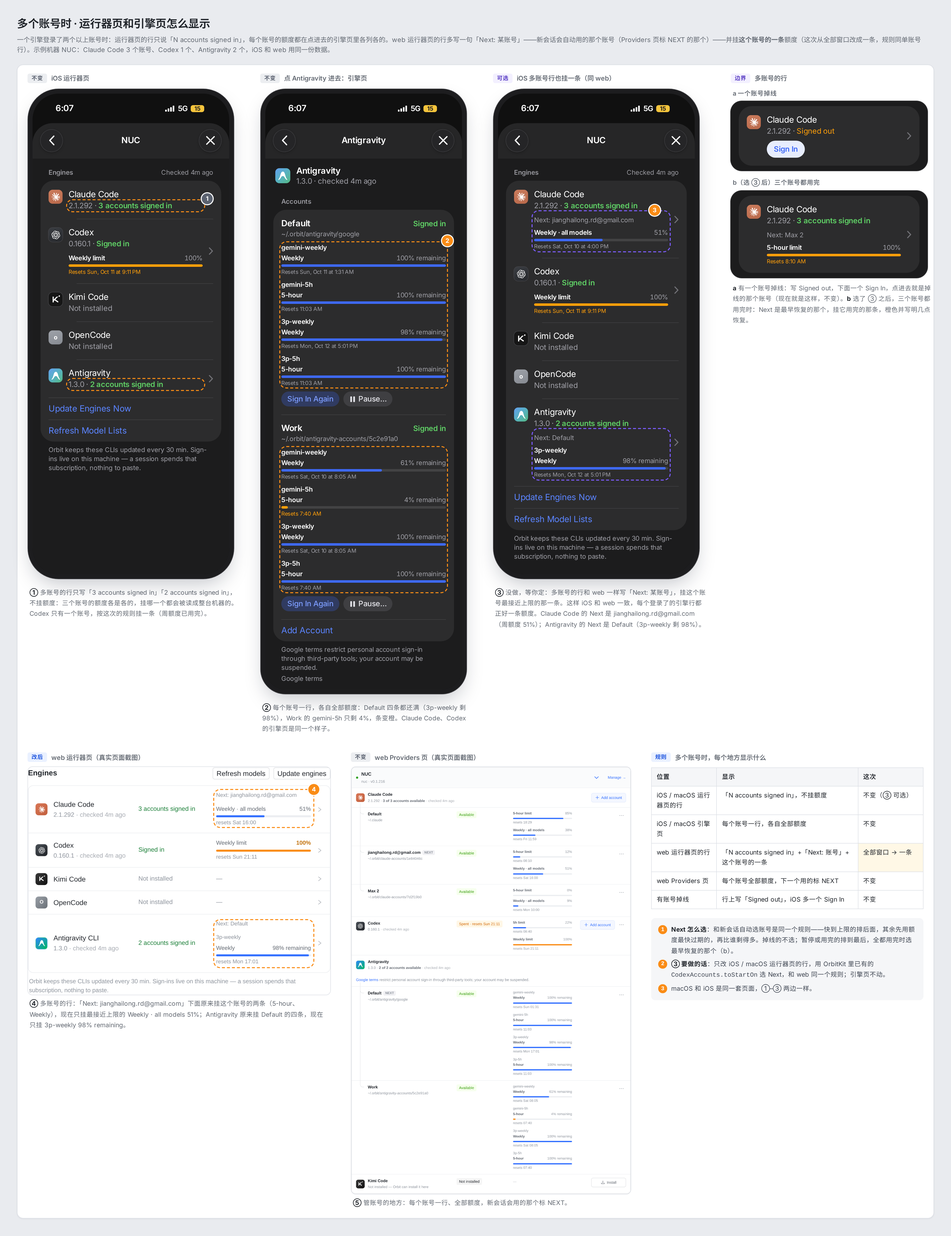
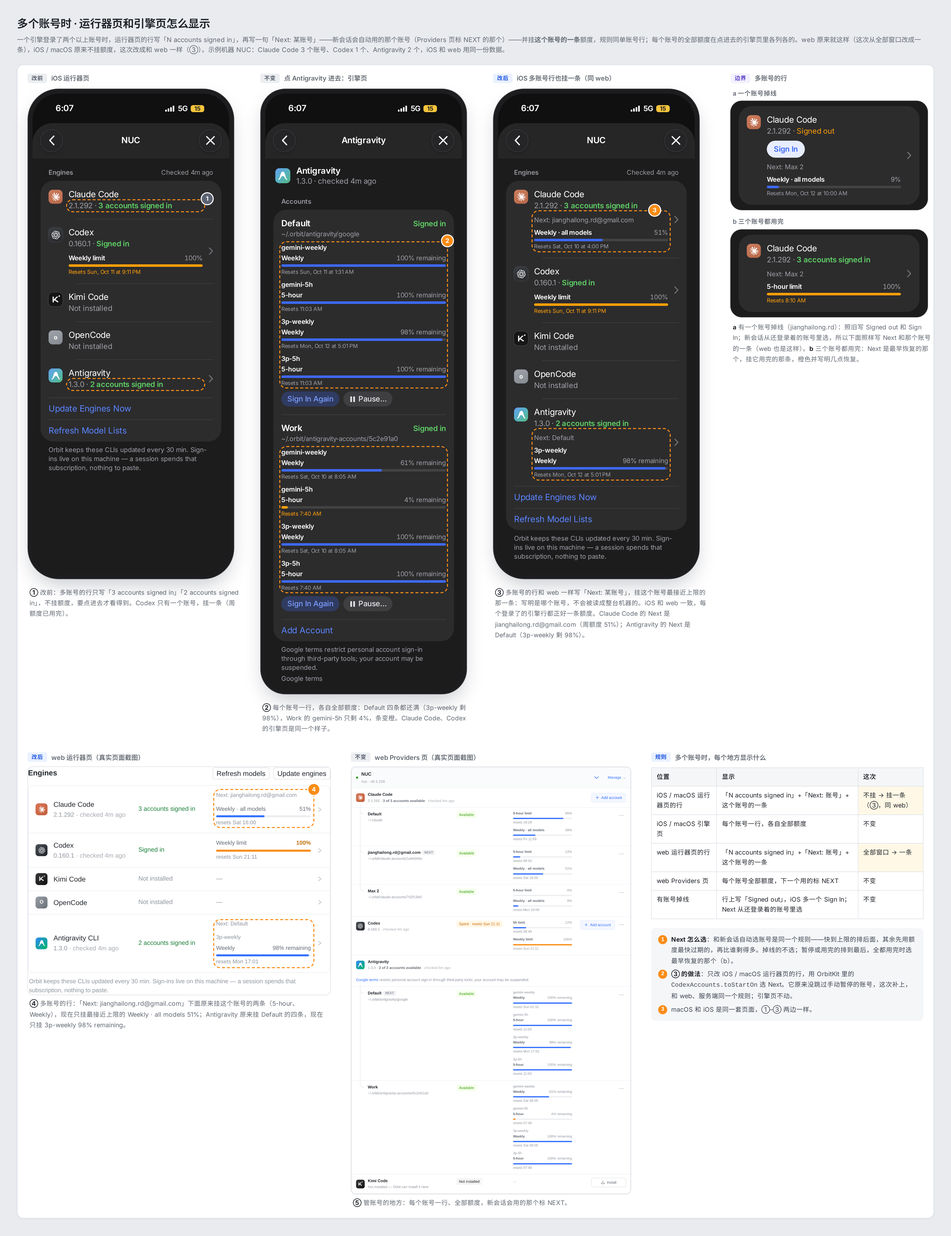
Runner page: a several-accounts row names the next account and its window (iOS/macOS)
On iOS and macOS an engine with several accounts said "N accounts signed in" and showed no quota,
while the web row named the account a new session starts on and showed its window. The native row
now does the same: "Next: <account>" (RunnerPageCopy.runnerEngineNext, beside web's runnerCopy
runnerEngineNext, which RunnerEnginesSection now uses) above that account's binding window.

CodexAccounts.toStartOn now passes over an account paused by hand until its pause ends, as shared
rankAccounts has since the account pause landed (0ba581f31), so the account the row names is the one
the server starts a session on; the New Session screen's Automatic preview reads the same answer.

Board 07 (docs/mocks/antigravity-accounts) records the decision.

diff --git a/docs/mocks/antigravity-accounts/07-multi-account-display.html b/docs/mocks/antigravity-accounts/07-multi-account-display.html
@@ -2,7 +2,7 @@
 <!-- Design mock: what a runner's page and an engine's page show when an engine has several accounts,
      after the one-window-per-row change (06). ①–③ and the cuts are drawn with kit.js in the owner's
      dark appearance; ④ and ⑤ are screenshots of the real web console (vite dev on this branch, synthetic
-     runner data, 2026-10-07 6:07 AM Asia/Shanghai). ③ is an option, not built. Not shipped code. -->
+     runner data, 2026-10-07 6:07 AM Asia/Shanghai). ③ was an option; the owner chose it. Not shipped code. -->
 <html lang="en">
 <head>
 <meta charset="utf-8">
@@ -26,21 +26,19 @@
   .rules th, .rules td { border: 1px solid #dde0e6; padding: 8px 10px; text-align: left; vertical-align: top; }
   .rules th { background: #f5f6f8; font-weight: 600; color: var(--text-1); }
   .rules td.chg { background: #fff8e6; }
-  .rules td.opt { background: #f3f0ff; }
-  .ring.violet { border-color: #7c5cff; }
 </style>
 </head>
 <body class="m">
 <section class="board m-sheet">
   <h1 class="m-h1 zh">多个账号时 · 运行器页和引擎页怎么显示</h1>
-  <p class="m-sub zh">一个引擎登录了两个以上账号时：运行器页的行只说「N accounts signed in」，每个账号的额度都在点进去的引擎页里各列各的。web 运行器页的行多写一句「Next: 某账号」——新会话会自动用的那个账号（Providers 页标 NEXT 的那个）——并挂<b>这个账号的一条</b>额度（这次从全部窗口改成一条，规则同单账号行）。示例机器 NUC：Claude Code 3 个账号、Codex 1 个、Antigravity 2 个，iOS 和 web 用同一份数据。</p>
+  <p class="m-sub zh">一个引擎登录了两个以上账号时，运行器页的行写「N accounts signed in」，再写一句「Next: 某账号」——新会话会自动用的那个账号（Providers 页标 NEXT 的那个）——并挂<b>这个账号的一条</b>额度，规则同单账号行；每个账号的全部额度在点进去的引擎页里各列各的。web 原来就这样（这次从全部窗口改成一条），iOS / macOS 原来不挂额度，这次改成和 web 一样（③）。示例机器 NUC：Claude Code 3 个账号、Codex 1 个、Antigravity 2 个，iOS 和 web 用同一份数据。</p>
 
   <div class="m-stage">
     <div class="row4">
       <div class="ph-wrap">
-        <div class="ph-l zh"><span class="m-k">不变</span>iOS 运行器页</div>
+        <div class="ph-l zh"><span class="m-k">改前</span>iOS 运行器页</div>
         <div id="p1"></div>
-        <p class="m-cap zh"><b>①</b> 多账号的行只写「3 accounts signed in」「2 accounts signed in」，不挂额度：三个账号的额度各是各的，挂哪一个都会被读成整台机器的。Codex 只有一个账号，按这次的规则挂一条（周额度已用完）。</p>
+        <p class="m-cap zh"><b>①</b> 改前：多账号的行只写「3 accounts signed in」「2 accounts signed in」，不挂额度，要点进去才看得到。Codex 只有一个账号，挂一条（周额度已用完）。</p>
       </div>
       <div class="ph-wrap">
         <div class="ph-l zh"><span class="m-k">不变</span>点 Antigravity 进去：引擎页</div>
@@ -48,14 +46,14 @@
         <p class="m-cap zh"><b>②</b> 每个账号一行，各自全部额度：Default 四条都还满（3p-weekly 剩 98%），Work 的 gemini-5h 只剩 4%，条变橙。Claude Code、Codex 的引擎页是同一个样子。</p>
       </div>
       <div class="ph-wrap">
-        <div class="ph-l zh"><span class="m-k state">可选</span>iOS 多账号行也挂一条（同 web）</div>
+        <div class="ph-l zh"><span class="m-k new">改后</span>iOS 多账号行也挂一条（同 web）</div>
         <div id="p3"></div>
-        <p class="m-cap zh"><b>③</b> 没做，等你定：多账号的行和 web 一样写「Next: 某账号」，挂这个账号最接近上限的那一条。这样 iOS 和 web 一致，每个登录了的引擎行都正好一条额度。Claude Code 的 Next 是 jianghailong.rd@gmail.com（周额度 51%）；Antigravity 的 Next 是 Default（3p-weekly 剩 98%）。</p>
+        <p class="m-cap zh"><b>③</b> 多账号的行和 web 一样写「Next: 某账号」，挂这个账号最接近上限的那一条：写明是哪个账号，不会被读成整台机器的。iOS 和 web 一致，每个登录了的引擎行都正好一条额度。Claude Code 的 Next 是 jianghailong.rd@gmail.com（周额度 51%）；Antigravity 的 Next 是 Default（3p-weekly 剩 98%）。</p>
       </div>
       <div>
         <div class="ph-l zh" style="margin:0 0 8px 10px"><span class="m-k state">边界</span>多账号的行</div>
         <div class="cuts" id="cuts"></div>
-        <p class="m-cap zh" style="margin-left:14px; width:400px"><b>a</b> 有一个账号掉线：写 Signed out，下面一个 Sign In，点进去就是掉线的那个账号（现在就是这样，不变）。<b>b</b> 选了 ③ 之后，三个账号都用完时：Next 是最早恢复的那个，挂它用完的那条，橙色并写明几点恢复。</p>
+        <p class="m-cap zh" style="margin-left:14px; width:400px"><b>a</b> 有一个账号掉线（jianghailong.rd）：照旧写 Signed out 和 Sign In；新会话从还登录着的账号里选，所以下面照样写 Next 和那个账号的一条（web 也是这样）。<b>b</b> 三个账号都用完：Next 是最早恢复的那个，挂它用完的那条，橙色并写明几点恢复。</p>
       </div>
     </div>
 
@@ -74,15 +72,15 @@
         <div class="ph-l zh" style="margin-bottom:6px"><span class="m-k new">规则</span>多个账号时，每个地方显示什么</div>
         <table class="rules zh">
           <tr><th style="width:24%">位置</th><th>显示</th><th style="width:24%">这次</th></tr>
-          <tr><td>iOS / macOS 运行器页的行</td><td>「N accounts signed in」，不挂额度</td><td>不变（③ 可选）</td></tr>
+          <tr><td>iOS / macOS 运行器页的行</td><td>「N accounts signed in」+「Next: 账号」+ 这个账号的一条</td><td class="chg">不挂 → 挂一条（③，同 web）</td></tr>
           <tr><td>iOS / macOS 引擎页</td><td>每个账号一行，各自全部额度</td><td>不变</td></tr>
           <tr><td>web 运行器页的行</td><td>「N accounts signed in」+「Next: 账号」+ 这个账号的一条</td><td class="chg">全部窗口 → 一条</td></tr>
           <tr><td>web Providers 页</td><td>每个账号全部额度，下一个用的标 NEXT</td><td>不变</td></tr>
-          <tr><td>有账号掉线</td><td>行上写「Signed out」，iOS 多一个 Sign In</td><td>不变</td></tr>
+          <tr><td>有账号掉线</td><td>行上写「Signed out」，iOS 多一个 Sign In；Next 从还登录着的账号里选</td><td>不变</td></tr>
         </table>
         <ul class="m-notes zh">
           <li><span class="m-n">1</span><span><b>Next 怎么选</b>：和新会话自动选账号是同一个规则——快到上限的排后面，其余先用额度最快过期的，再比谁剩得多。掉线的不选；暂停或用完的排到最后，全都用完时选最早恢复的那个（b）。</span></li>
-          <li><span class="m-n">2</span><span><b>③ 要做的话</b>：只改 iOS / macOS 运行器页的行，用 OrbitKit 里已有的 <code>CodexAccounts.toStartOn</code> 选 Next，和 web 同一个规则；引擎页不动。</span></li>
+          <li><span class="m-n">2</span><span><b>③ 的做法</b>：只改 iOS / macOS 运行器页的行，用 OrbitKit 里的 <code>CodexAccounts.toStartOn</code> 选 Next。它原来没跳过手动暂停的账号，这次补上，和 web、服务端同一个规则；引擎页不动。</span></li>
           <li><span class="m-n">3</span><span>macOS 和 iOS 是同一套页面，①–③ 两边一样。</span></li>
         </ul>
       </div>
@@ -109,7 +107,7 @@
   const page = (rows) => section({ header: 'Engines', trailing: 'Checked 4m ago', rows: [...rows,
     btnRow('Update Engines Now'), btnRow('Refresh Model Lists')], footer });
 
-  // ① as it stays: several accounts, no quota on the row.
+  // ① before: several accounts, no quota on the row.
   document.getElementById('p1').outerHTML = phone({ title: 'NUC', cls: 'dark', status: STATUS, height: 960,
     body: page([claudeRow(), codex, ...missing, agRow()]) });
 
@@ -134,7 +132,7 @@
   ], footer: GOOGLE_TERMS });
   document.getElementById('p2').outerHTML = phone({ title: 'Antigravity', body: enginePage, cls: 'dark tall', status: STATUS, height: 1190 });
 
-  // ③ the option: the account a new session starts on, named, and its one window.
+  // ③ as it ships: the account a new session starts on, named, and its one window.
   document.getElementById('p3').outerHTML = phone({ title: 'NUC', cls: 'dark', status: STATUS, height: 960, body: page([
     claudeRow({ extra: nx('jianghailong.rd@gmail.com'),
       windows: [{ label: 'Weekly · all models', pct: 51, resets: 'Resets Sat, Oct 10 at 4:00 PM' }] }),
@@ -145,8 +143,9 @@
 
   const cut = (label, row) => `<div><div class="cut-l zh">${label}</div><div class="cut dark">${section({ rows: [row] }).replace('<div class="s-gap"></div>', '')}</div></div>`;
   document.getElementById('cuts').innerHTML = [
-    cut('a 一个账号掉线', claudeRow({ id: '', status: { text: 'Signed out', tone: 'warn' }, capsule: 'Sign In' })),
-    cut('b（选 ③ 后）三个账号都用完', claudeRow({ id: '', extra: nx('Max 2'),
+    cut('a 一个账号掉线', claudeRow({ id: '', status: { text: 'Signed out', tone: 'warn' }, capsule: 'Sign In', extra: nx('Max 2'),
+      windows: [{ label: 'Weekly · all models', pct: 9, resets: 'Resets Mon, Oct 12 at 10:00 AM' }] })),
+    cut('b 三个账号都用完', claudeRow({ id: '', extra: nx('Max 2'),
       windows: [{ label: '5-hour limit', pct: 100, resets: 'Resets 8:10 AM', warn: true }] })),
   ].join('');
 
@@ -163,7 +162,7 @@
     ringMark(p2, '#work .ws', '', 4);
     for (const id of ['cl', 'ag']) {
       const a = at(p3, `#${id} .nx`), b = at(p3, `#${id} .ws`);
-      p3.insertAdjacentHTML('beforeend', marks([{ x: a.x - 5, y: a.y - 3, w: Math.max(a.w, b.w) + 10, h: b.y + b.h - a.y + 8, cls: 'violet' }]));
+      p3.insertAdjacentHTML('beforeend', marks([{ x: a.x - 5, y: a.y - 3, w: Math.max(a.w, b.w) + 10, h: b.y + b.h - a.y + 8 }]));
     }
     const n3 = at(p3, '#cl .nx');
     p3.insertAdjacentHTML('beforeend', marks([{ n: '3', x: n3.x + 230, y: n3.y - 14 }]));

diff --git a/src/macos/OrbitKit/Tests/OrbitKitTests/AntigravityAccountsTests.swift b/src/macos/OrbitKit/Tests/OrbitKitTests/AntigravityAccountsTests.swift
@@ -105,14 +105,18 @@ final class AntigravityAccountsTests: XCTestCase {
         XCTAssertTrue(rows.allSatisfy(\.remaining), "still what is left, as agy says it")
     }
 
-    /// ③ Several read like Claude Code: "2 accounts signed in", no windows on the row — each account's
-    /// quota is its own, read from the engine health, and lives on the engine page.
+    /// ③ Several read like Claude Code: "2 accounts signed in", and on the row the window closest to its
+    /// limit of the account a new session starts on, named — each account's quota is its own, read from
+    /// the engine health, and all of it lives on the engine page.
     func testSeveralGoogleAccountsAreCountedAndEachOnesQuotaIsItsOwn() throws {
         let hpc = try runner(engine(accounts: [("default", nil, "yes"), (work, "Work", "yes")],
                                     defaultBuckets: defaultBuckets, others: [work: workBuckets]))
         XCTAssertEqual(RunnerPageFormat.engineStatus(try agy(hpc), runner: hpc),
                        RunnerPageFormat.Status(text: "2 accounts signed in", tone: .ok))
-        XCTAssertEqual(RunnerPageFormat.engineWindows(hpc, engine: "antigravity"), [])
+        // Work's 5 hours are down to 4%, nearly spent: a new session starts on Default.
+        XCTAssertEqual(RunnerPageFormat.engineNextAccount(hpc, engine: "antigravity", now: now), "Default")
+        XCTAssertEqual(RunnerPageFormat.engineWindows(hpc, engine: "antigravity", now: now).map(\.groupLabel),
+                       ["3p-weekly"])
         XCTAssertEqual(RunnerPageFormat.accountWindows(hpc, engine: "antigravity", account: "default").map(\.percent),
                        [100, 100, 98, 100])
         XCTAssertEqual(RunnerPageFormat.accountWindows(hpc, engine: "antigravity", account: work).map(\.percent),
@@ -129,6 +133,10 @@ final class AntigravityAccountsTests: XCTestCase {
         XCTAssertTrue(RunnerPageFormat.needsSignIn(try agy(hpc)))
         XCTAssertEqual(RunnerPageFormat.accountWindows(hpc, engine: "antigravity", account: work), [],
                        "a signed-out account has no quota")
+        XCTAssertEqual(RunnerPageFormat.engineNextAccount(hpc, engine: "antigravity", now: now), "Default",
+                       "a new session still starts on the one that is in, as web's row says")
+        XCTAssertEqual(RunnerPageFormat.engineWindows(hpc, engine: "antigravity", now: now).map(\.groupLabel),
+                       ["3p-weekly"])
 
         // Default signed out takes its buckets with it, and the rest are still each one's own.
         let defaultOut = try runner(engine(auth: "no", accounts: [("default", nil, "no"), (work, "Work", "yes")],
@@ -137,6 +145,8 @@ final class AntigravityAccountsTests: XCTestCase {
         XCTAssertEqual(RunnerPageFormat.accountWindows(defaultOut, engine: "antigravity", account: "default"), [])
         XCTAssertEqual(RunnerPageFormat.accountWindows(defaultOut, engine: "antigravity", account: work).map(\.percent),
                        [61, 4, 100, 100])
+        XCTAssertEqual(RunnerPageFormat.engineNextAccount(defaultOut, engine: "antigravity", now: now), "Work")
+        XCTAssertEqual(RunnerPageFormat.engineWindows(defaultOut, engine: "antigravity", now: now).map(\.percent), [4])
     }
 
     /// A runner that runs agy on its own GEMINI_API_KEY keeps saying "env key": its Default — the
@@ -170,6 +180,10 @@ final class AntigravityAccountsTests: XCTestCase {
         XCTAssertFalse(RunnerPageFormat.needsSignIn(try agy(both)))
         XCTAssertEqual(RunnerPageFormat.accountLines(try agy(both)).map(\.envKey), [true, false])
         XCTAssertEqual(RunnerPageFormat.accountLines(try agy(both)).map(\.auth), [nil, "yes"])
+        // The key has no quota to spend first: a new session starts on Work, and the row says so.
+        XCTAssertEqual(RunnerPageFormat.engineNextAccount(both, engine: "antigravity", now: now), "Work")
+        XCTAssertEqual(RunnerPageFormat.engineWindows(both, engine: "antigravity", now: now).map(\.groupLabel),
+                       ["gemini-5h"])
         let workOut = try runner(engine(authSource: "env_key", accounts: [("default", nil, "no"), (work, "Work", "no")]))
         XCTAssertEqual(RunnerPageFormat.engineStatus(try agy(workOut), runner: workOut)?.text, "Signed out")
         XCTAssertTrue(RunnerPageFormat.needsSignIn(try agy(workOut)), "Work is out, and needs signing in")

diff --git a/src/macos/OrbitKit/Sources/OrbitKit/App/RunnerPageFormat.swift b/src/macos/OrbitKit/Sources/OrbitKit/App/RunnerPageFormat.swift
@@ -345,17 +345,43 @@ public enum RunnerPageFormat {
         return checked.map { RunnerPageCopy.runnerEnginesChecked(when: RunnerAttention.ago($0.0, nowMs: nowMs(now))) }
     }
 
-    /// The quota window an Engines row shows under the engine: Default's binding one — the window that
-    /// stops that login, or will stop it first (`PlanUsageSnapshot.bindingRow`, the one the composer's
-    /// gauge shows) — while the engine is signed in and has one account. One per row, whether the CLI
-    /// reports two windows or four: every window is the engine page's to list. With several accounts,
-    /// each account's quota is its own and lives on the engine's page (web: a group's own columns stay
-    /// empty rather than speak for one account).
+    /// The quota window an Engines row shows under the engine: the binding one — the window that stops
+    /// a login, or will stop it first (`PlanUsageSnapshot.bindingRow`, the one the composer's gauge
+    /// shows). Default's while the engine is signed in and has one account; with several, that of the
+    /// account a new session starts on, which the row names above it (`engineNextAccount`, web's
+    /// "Next: …") so it never reads as the whole machine's. One per row, whether the CLI reports two
+    /// windows or four: every window, and every account's, is the engine page's to list.
     public static func engineWindows(_ runner: Runner, engine: String, now: Date = Date()) -> [PlanUsageRow] {
-        guard let health = runner.engines?.first(where: { $0.engine == engine }), health.installed == true,
-              health.auth == "yes", (health.accounts ?? []).count < 2 else { return [] }
+        guard let health = runner.engines?.first(where: { $0.engine == engine }), health.installed == true else {
+            return []
+        }
+        let account: String
+        if (health.accounts ?? []).count >= 2 {
+            guard let next = nextAccount(runner, health: health, now: now) else { return [] }
+            account = next
+        } else {
+            guard health.auth == "yes" else { return [] }
+            account = CodexAccounts.defaultID
+        }
         let usage = CodexAccounts.usage(engine, planUsage: runner.planUsage, engines: runner.engines)
-        return CodexAccounts.snapshot(usage, account: CodexAccounts.defaultID)?.bindingRow(at: now).map { [$0] } ?? []
+        return CodexAccounts.snapshot(usage, account: account)?.bindingRow(at: now).map { [$0] } ?? []
+    }
+
+    /// The account an Engines row names above its window while the engine has several: the one a new
+    /// session starts on, whose window that is. Nil with one account, with none signed in, or when that
+    /// account has no window to show — web's row names it above one only too.
+    public static func engineNextAccount(_ runner: Runner, engine: String, now: Date = Date()) -> String? {
+        guard let health = runner.engines?.first(where: { $0.engine == engine }), health.installed == true,
+              let next = nextAccount(runner, health: health, now: now),
+              !engineWindows(runner, engine: engine, now: now).isEmpty else { return nil }
+        return CodexAccounts.label(next, accounts: health.accounts)
+    }
+
+    /// Which of an engine's several accounts a new session starts on (`CodexAccounts.toStartOn`, web's
+    /// `accountToStartOn`); nil with one account, or none signed in.
+    private static func nextAccount(_ runner: Runner, health: RunnerEngineHealth, now: Date) -> String? {
+        let usage = CodexAccounts.usage(health.engine, planUsage: runner.planUsage, engines: runner.engines)
+        return CodexAccounts.toStartOn(health.accounts, usage: usage, now: now)
     }
 
     /// One account's own windows: Default's are the engine snapshot's, another's its entry under

diff --git a/src/macos/OrbitKit/Tests/OrbitKitTests/RunnerPageFormatTests.swift b/src/macos/OrbitKit/Tests/OrbitKitTests/RunnerPageFormatTests.swift
@@ -305,8 +305,11 @@ final class RunnerPageFormatTests: XCTestCase {
         XCTAssertEqual(claude.map(\.percent), [98])
         XCTAssertEqual(RunnerPageFormat.accountWindows(wikova, engine: "claude", account: "default").map(\.label),
                        ["5-hour limit", "Weekly · all models"])
-        XCTAssertEqual(RunnerPageFormat.engineWindows(wikova, engine: "codex"), [],
-                       "with two accounts each one's quota is on the engine page")
+        XCTAssertNil(RunnerPageFormat.engineNextAccount(wikova, engine: "claude", now: now), "one account: none to name")
+        // With two, the row carries the window of the one a new session starts on, named: Work's 5 hours
+        // are nearly spent (91%), so Default. Each one's every window is the engine page's.
+        XCTAssertEqual(RunnerPageFormat.engineNextAccount(wikova, engine: "codex", now: now), "Default")
+        XCTAssertEqual(RunnerPageFormat.engineWindows(wikova, engine: "codex", now: now).map(\.percent), [20])
         XCTAssertEqual(RunnerPageFormat.accountWindows(wikova, engine: "codex", account: "default").map(\.percent),
                        [20])
         XCTAssertEqual(RunnerPageFormat.accountWindows(wikova, engine: "codex", account: "1fda3f43").map(\.percent),
@@ -329,6 +332,17 @@ final class RunnerPageFormatTests: XCTestCase {
                        [84, 77], "Default's are the flat payload's own windows, not an added account's")
         XCTAssertEqual(RunnerPageFormat.accountWindows(hpc, engine: "codex", account: "1e84046c"), [],
                        "a flat Claude payload is no Codex snapshot")
+    }
+
+    /// The same machine's Claude row names the account a new session starts on and carries its window:
+    /// Default's 5 hours are nearly spent (84%), and of the other two rd's week runs out first.
+    func testTheRowNamesTheAccountANewSessionStartsOn() throws {
+        let hpc = try runner(Self.hpcJSON)
+        let at = try XCTUnwrap(ISO8601DateFormatter().date(from: "2026-10-06T22:18:26Z"))
+        XCTAssertEqual(RunnerPageFormat.engineNextAccount(hpc, engine: "claude", now: at), "jianghailong.rd@gmail.com")
+        let row = try XCTUnwrap(RunnerPageFormat.engineWindows(hpc, engine: "claude", now: at).first)
+        XCTAssertEqual([row.label, "\(row.percent)"], ["Weekly · all models", "41"])
+        XCTAssertEqual(RunnerPageFormat.engineWindows(hpc, engine: "claude", now: at).count, 1)
     }
 
     func testAFailedUpdateIsTheRowsOnlyOnceItIsAProblem() throws {

diff --git a/src/macos/OrbitApp/Sources/OrbitApp/Views/RunnerPageParts.swift b/src/macos/OrbitApp/Sources/OrbitApp/Views/RunnerPageParts.swift
@@ -287,8 +287,8 @@ struct RunnerCapsule<Label: View>: View {
 }
 
 /// One engine on the runner's page: its mark and name, its version and where its sign-ins stand, a
-/// failed update that has become its problem, Sign In when a login it needs is out, and — while it
-/// is signed in with one account — the quota window closest to its limit.
+/// failed update that has become its problem, Sign In when a login it needs is out, and the quota
+/// window closest to its limit — with several accounts, that of the one a new session starts on, named.
 struct RunnerEngineRow: View {
     let health: RunnerEngineHealth
     let runner: Runner
@@ -297,6 +297,7 @@ struct RunnerEngineRow: View {
 
     var body: some View {
         let windows = RunnerPageFormat.engineWindows(runner, engine: health.engine)
+        let next = RunnerPageFormat.engineNextAccount(runner, engine: health.engine)
         HStack(spacing: 12) {
             HStack(alignment: .top, spacing: 12) {
                 ProviderMark(provider: health.engine, size: 28, label: RunnerPageFormat.engineName(health.engine))
@@ -320,13 +321,20 @@ struct RunnerEngineRow: View {
                     } else if RunnerPageFormat.needsSignIn(health) {
                         RunnerCapsule(enabled: !offline) { Text(RunnerPageCopy.RUNNER_SIGN_IN) }
                     }
+                    // Several accounts: whose window this is — the account a new session starts on.
+                    if let next {
+                        Text(RunnerPageCopy.runnerEngineNext(account: next))
+                            .font(.orbitLabel)
+                            .foregroundStyle(Color.secondary)
+                            .padding(.top, 8)
+                    }
                     if !windows.isEmpty {
                         VStack(alignment: .leading, spacing: 10) {
                             ForEach(windows) { row in
                                 RunnerWindowRow(row: row, resets: RunnerPageFormat.resetsLine(row, now: now))
                             }
                         }
-                        .padding(.top, 8)
+                        .padding(.top, next == nil ? 8 : 4)
                     }
                 }
             }

diff --git a/src/macos/OrbitKit/Sources/OrbitKit/App/CodexAccounts.swift b/src/macos/OrbitKit/Sources/OrbitKit/App/CodexAccounts.swift
@@ -125,6 +125,7 @@ public enum CodexAccounts {
     ///   Different plans hold very different amounts, so how much is left is not compared across
     ///   accounts — only when it expires. An account with nothing reported comes after every one that has.
     /// - Equal expiry: the one with more room, by its tightest window. Unread ranks after read.
+    /// - One paused by hand (`pausedUntil`) waits as a spent one does, until its pause ends.
     /// - Every candidate spent: the one that frees up first.
     /// - Ties go to Default, then to the lower id.
     ///
@@ -142,11 +143,16 @@ public enum CodexAccounts {
             let open = ws.filter { !(resetTime($0).map { $0 <= now.timeIntervalSince1970 } ?? false) }
             let spent = open.filter { $0.utilization >= 100 }
             let resets = spent.map { resetTime($0) ?? .infinity }
+            var spentUntil = spent.isEmpty ? nil : resets.max()
+            if let pause = account.pausedUntil.flatMap(RelativeTime.parse)?.timeIntervalSince1970,
+               pause > now.timeIntervalSince1970 {
+                spentUntil = max(pause, spentUntil ?? 0)
+            }
             return Candidate(id: account.id,
                              nearLimit: own.map { nearlySpent($0, now: now) } ?? false,
                              expiresAt: own.map { expiresAt($0, now: now) } ?? .infinity,
                              tightest: ws.map(\.utilization).max() ?? .infinity,
-                             spentUntil: spent.isEmpty ? nil : resets.max())
+                             spentUntil: spentUntil)
         }
         func byID(_ a: Candidate, _ b: Candidate) -> Bool {
             if (a.id == defaultID) != (b.id == defaultID) { return a.id == defaultID }

diff --git a/src/macos/OrbitKit/Tests/OrbitKitTests/CodexAccountsTests.swift b/src/macos/OrbitKit/Tests/OrbitKitTests/CodexAccountsTests.swift
@@ -96,6 +96,21 @@ final class CodexAccountsTests: XCTestCase {
         XCTAssertEqual(CodexAccounts.toStartOn(both, usage: usage(100, 18, nil), now: now), pro)
     }
 
+    /// Paused by hand, an account waits as a spent one does until its pause ends (shared
+    /// `rankAccounts`): passed over while another can run, and with every one held, the first free.
+    func testAPausedAccountWaitsUntilItsPauseEnds() {
+        let paused = [account("default"), RunnerEngineAccount(id: pro, auth: "yes", pausedUntil: "2026-08-03T15:00:00Z")]
+        // Pro's week ends first, so it would go first — but it is paused for two more hours.
+        XCTAssertEqual(CodexAccounts.toStartOn(paused, usage: usage(5, 18, 40, proReset: "2026-08-05T13:00:00Z"), now: now),
+                       "default")
+        let over = [account("default"), RunnerEngineAccount(id: pro, auth: "yes", pausedUntil: "2026-08-03T12:00:00Z")]
+        XCTAssertEqual(CodexAccounts.toStartOn(over, usage: usage(5, 18, 40, proReset: "2026-08-05T13:00:00Z"), now: now),
+                       pro, "a pause that has ended holds nothing")
+        // Default spent until its 5 hours reset tomorrow at 01:00, Pro paused until 15:00 today: Pro.
+        XCTAssertEqual(CodexAccounts.toStartOn(paused, usage: usage(100, 18, 40, proReset: "2026-08-05T13:00:00Z"), now: now),
+                       pro)
+    }
+
     func testNeverPicksASignedOutAccount() {
         XCTAssertEqual(CodexAccounts.toStartOn([account("default"), account(pro, "no")], usage: usage(90, 18, 0), now: now), "default")
         XCTAssertNil(CodexAccounts.toStartOn([account("default", "no"), account(pro, "no")], usage: usage(0, 0, 0), now: now))

diff --git a/src/web/src/components/RunnerEnginesSection.tsx b/src/web/src/components/RunnerEnginesSection.tsx
@@ -18,6 +18,7 @@ import {
   RUNNER_ENGINE_SIGNED_IN,
   RUNNER_ENGINE_SIGNED_OUT,
   runnerEngineAccountsSignedIn,
+  runnerEngineNext,
 } from '../lib/runnerCopy';
 import { DSH_STATE_LABEL, dshRunnerState } from '../lib/dshRuntime';
 import { ENGINE_CLI_NAME, engineVersionNumber, updateNoteOf } from '../lib/runnerEngines';
@@ -261,7 +262,7 @@ function EngineLine({ runner, health }: { runner: Runner; health: RunnerEngineHe
       </div>
       <div className={`rd-engine-auth ${signIn.tone}`}>{signIn.text}</div>
       <div className={`rd-engine-quota${quota.length === 0 && !signedIn ? ' empty' : ''}`}>
-        {quota.length > 0 && next && <div className="rd-quota-next">{`Next: ${accountNameOf(next)}`}</div>}
+        {quota.length > 0 && next && <div className="rd-quota-next">{runnerEngineNext(accountNameOf(next))}</div>}
         {quota.length > 0 ? (
           quota.map((row) => (
             <div key={row.key} className={`rd-quota${row.nearLimit ? ' near' : ''}`}>

diff --git a/src/macos/OrbitKit/Tests/OrbitKitTests/RunnersPageWiringTests.swift b/src/macos/OrbitKit/Tests/OrbitKitTests/RunnersPageWiringTests.swift
@@ -285,6 +285,8 @@ final class RunnersPageWiringTests: XCTestCase {
         for piece in ["ProviderMark(provider: health.engine, size: 28", "RunnerPageFormat.engineStatus(health, runner: runner)",
                       "RunnerPageFormat.updateFailedLine(health, now: now)", "RunnerPageFormat.needsSignIn(health)",
                       "RunnerPageFormat.engineWindows(runner, engine: health.engine)",
+                      "RunnerPageFormat.engineNextAccount(runner, engine: health.engine)",
+                      "Text(RunnerPageCopy.runnerEngineNext(account: next))",
                       "RunnerWindowRow(row: row, resets: RunnerPageFormat.resetsLine(row, now: now))"] {
             XCTAssertTrue(row.contains(piece), "the engine row lost \(piece)")
         }

diff --git a/src/macos/OrbitKit/Tests/OrbitKitTests/RunnerPageCopyParityTests.swift b/src/macos/OrbitKit/Tests/OrbitKitTests/RunnerPageCopyParityTests.swift
@@ -210,6 +210,7 @@ final class RunnerPageCopyParityTests: XCTestCase {
         ("runnerEnginesReported", RunnerPageCopy.runnerEnginesReported(when: "${when}")),
         ("runnerEngineAccountsSignedIn", put(RunnerPageCopy.runnerEngineAccountsSignedIn(count: 90_001),
                                              [90_001: "count"])),
+        ("runnerEngineNext", RunnerPageCopy.runnerEngineNext(account: "${account}")),
         ("runnerEngineUpdateFailed", RunnerPageCopy.runnerEngineUpdateFailed(version: "${version}",
                                                                              when: "${when}")),
         ("runnerWorkspaceRunning", put(RunnerPageCopy.runnerWorkspaceRunning(count: 90_001),

diff --git a/src/web/src/lib/runnerAttention.test.ts b/src/web/src/lib/runnerAttention.test.ts
@@ -433,6 +433,7 @@ describe('runnerCopy', () => {
     expect(copy.runnerEnginesChecked('6 min ago')).toBe('Checked 6 min ago');
     expect(copy.runnerEnginesReported('Sep 14')).toBe('Reported Sep 14');
     expect(copy.runnerEngineAccountsSignedIn(2)).toBe('2 accounts signed in');
+    expect(copy.runnerEngineNext('Work')).toBe('Next: Work');
     expect(copy.runnerEngineUpdateFailed('2.1.270', 'Sep 13')).toBe('Update to 2.1.270 failed Sep 13');
     expect(copy.runnerWorkspaceRunning(4)).toBe('4 running');
     expect(copy.runnerInstallCommandUnix('https://orbitd.io')).toBe(

diff --git a/src/macos/OrbitKit/Sources/OrbitKit/App/RunnerPageCopy.swift b/src/macos/OrbitKit/Sources/OrbitKit/App/RunnerPageCopy.swift
@@ -54,6 +54,7 @@ public enum RunnerPageCopy {
     public static func runnerEnginesChecked(when: String) -> String { "Checked \(when)" }
     public static func runnerEnginesReported(when: String) -> String { "Reported \(when)" }
     public static func runnerEngineAccountsSignedIn(count: Int) -> String { "\(count) accounts signed in" }
+    public static func runnerEngineNext(account: String) -> String { "Next: \(account)" }
     public static func runnerEngineUpdateFailed(version: String, when: String) -> String {
         "Update to \(version) failed \(when)"
     }
